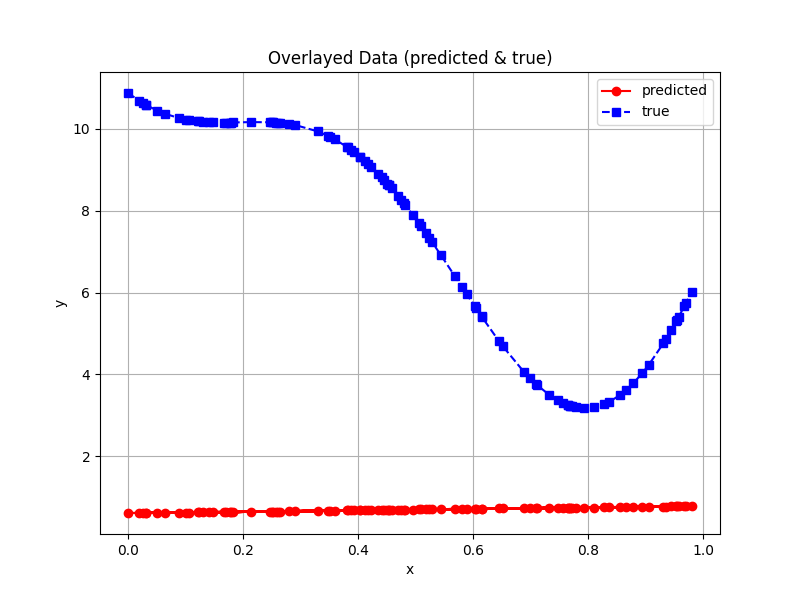
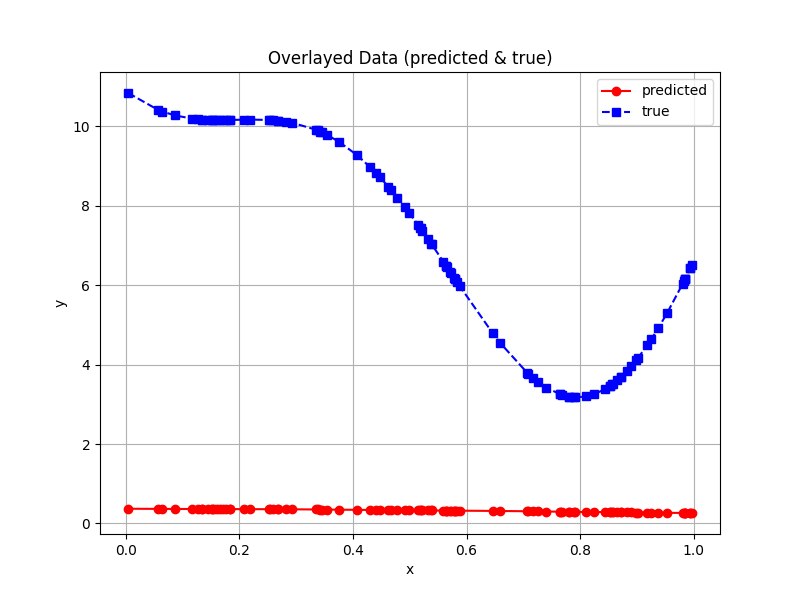
feat:(1) (2)

diff --git a/3A/applied_data_analysis/final_report/problem1/main.py b/3A/applied_data_analysis/final_report/problem1/main.py
@@ -7,6 +7,9 @@ import yaml
 from inference import inference_wrapper
 from train import train_wrapper
 
+seed = 42
+torch.manual_seed(seed)
+
 
 def main(config_file_path: str):
     with open(config_file_path) as file:
@@ -35,7 +38,7 @@ def main(config_file_path: str):
     plt.savefig(config["loss_graph_path"])
 
     # inference
-    x_inference, y_pred = inference_wrapper(
+    x_inference_sorted, y_pred = inference_wrapper(
         inf_N=config["inf_N"],
         x_range_from=config["x_range_from"],
         x_range_to=config["x_range_to"],
@@ -49,13 +52,12 @@ def main(config_file_path: str):
         y = 5 * x * torch.sin(2 * np.pi * x) + 4 * torch.exp(1 / (x + 1)) + epsilon
         return y
 
-    x_inference_sorted = torch.FloatTensor(np.sort(x_inference.numpy(), axis=0))
     y_true = generate_true_data(x_inference_sorted, epsilon=config["epsilon"])
 
     # inference graph
     plt.figure(figsize=(8, 6))
     plt.plot(
-        x_inference.numpy(),
+        x_inference_sorted.numpy(),
         y_pred,
         label="predicted",
         marker="o",

diff --git a/3A/applied_data_analysis/final_report/problem1/inference.py b/3A/applied_data_analysis/final_report/problem1/inference.py
@@ -34,5 +34,6 @@ def inference_wrapper(
     x_inference = (
         torch.FloatTensor(inf_N).uniform_(x_range_from, x_range_to).unsqueeze(1)
     )
-    y_pred = inference(model, x_inference)
-    return x_inference, y_pred
+    x_inference_sorted = torch.FloatTensor(np.sort(x_inference.numpy(), axis=0))
+    y_pred = inference(model, x_inference_sorted)
+    return x_inference_sorted, y_pred
